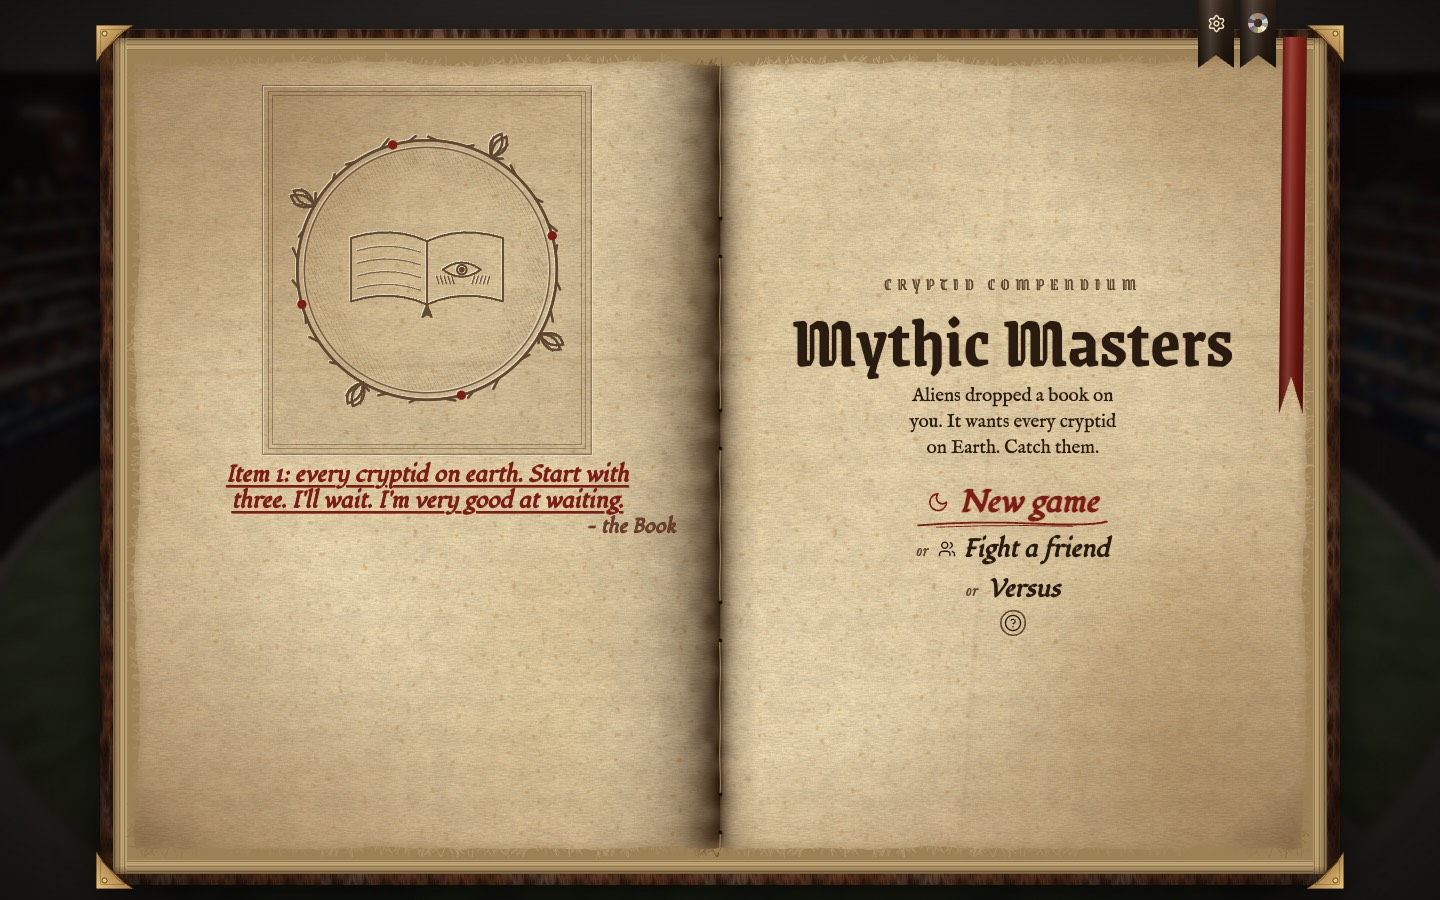
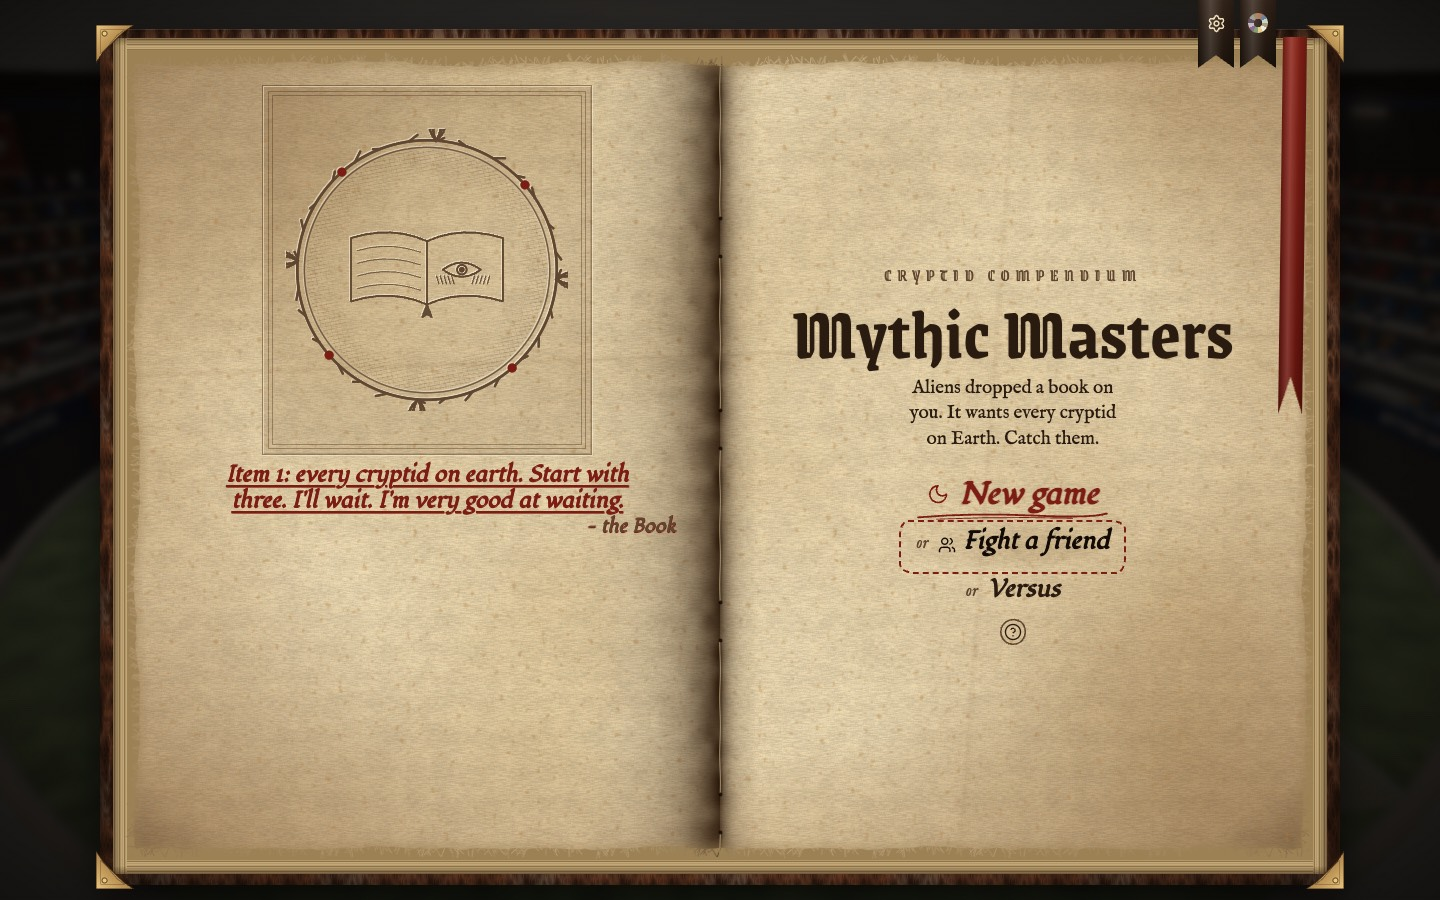
Mythic Masters title: each written menu word is a 44px tap row (#5120 round 115)

diff --git a/apps/mythic-masters/src/tome.css b/apps/mythic-masters/src/tome.css
@@ -1453,7 +1453,7 @@ body.in-fight > .gc-dialog { opacity: 0.74; }
  * not a stamped circle */
 .title .menu { display: grid; justify-items: center; gap: 4px; margin-top: 10px; width: min(480px, 100%); }
 .title .page .menu button#continue { font-size: 27px; text-wrap: balance; }
-.title .page .menu button { display: inline-flex; align-items: baseline; justify-content: center; gap: 0.3em; width: auto; padding: 2px 12px 6px; border: 0; background: none; transform: none;
+.title .page .menu button { display: inline-flex; align-items: baseline; min-height: 44px; box-sizing: border-box; justify-content: center; gap: 0.3em; width: auto; padding: 2px 12px 6px; border: 0; background: none; transform: none;
   font-family: var(--f-hand); font-size: 25px; color: var(--ink-b); text-shadow: 0.45px 0.55px 0 currentColor; }
 .title .page .menu button svg { width: 0.72em; height: 0.72em; align-self: center; stroke: currentColor; }
 .title .page .menu button::before { content: "or"; position: static; inset: auto; z-index: auto; display: inline-block; margin-right: 2px; -webkit-mask-box-image: none; box-shadow: none !important; background: none !important;
